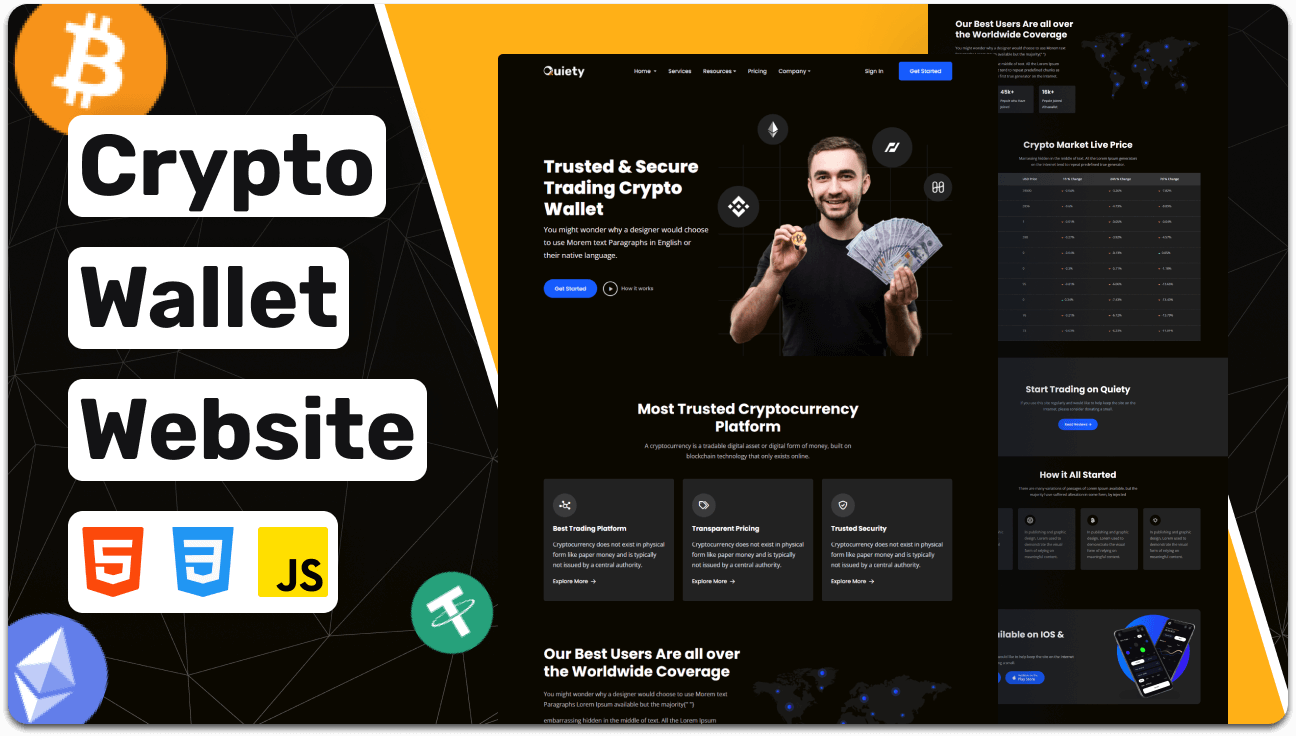
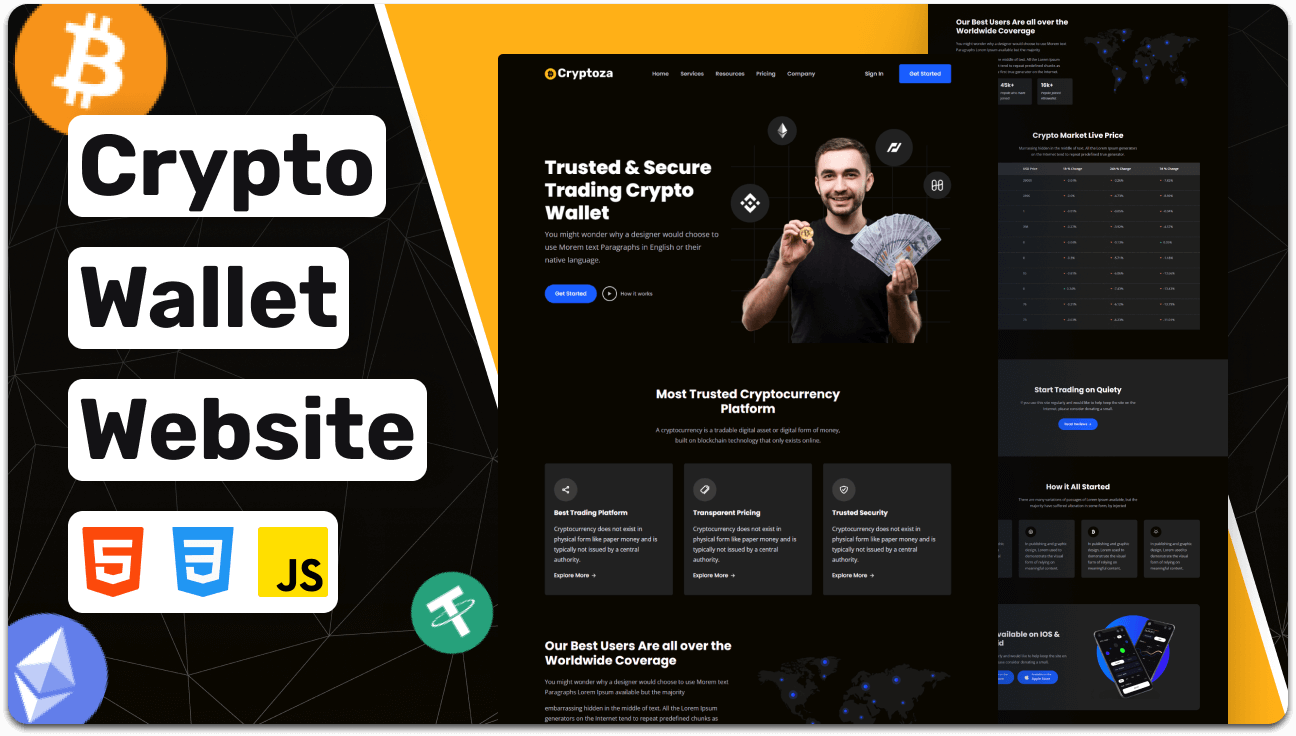
initial

diff --git a/README.md b/README.md
@@ -9,9 +9,9 @@
   <br />
   <br />
 
-  <h2 align="center">Cryptoza - Blog Website</h2>
+  <h2 align="center">Cryptoza - Cryptocurrency Wallet Website</h2>
 
-  Cryptoza is a fully responsive blog website, <br />Responsive for all devices, build using HTML, CSS, and JavaScript.
+  Cryptoza is a fully responsive cryptocurrency wallet website, <br />Responsive for all devices, build using HTML, CSS, and JavaScript.
 
   <a href="https://codewithsadee.github.io/cryptoza/"><strong>➥ Live Demo</strong></a>
 
